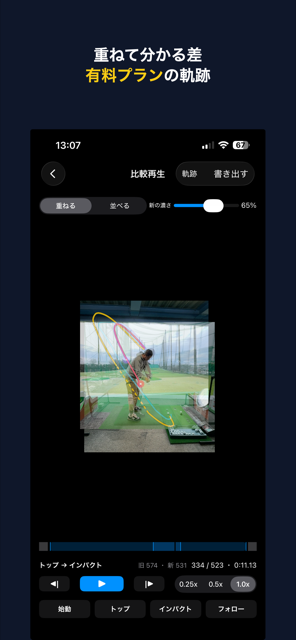
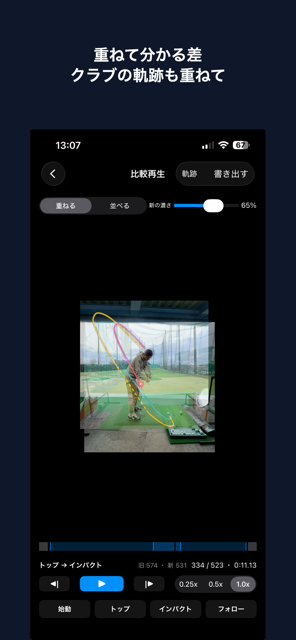
feat: ver-2.1 に合わせる(軌跡・書き出しは広告で解放・無料3回の廃止・特典=すべての広告なし・広告の場所・スクショ1/3枚目のキャプション)

Changed region(s): [[0.2432, 0.0938, 0.7601, 0.1562]]

diff --git a/index.html b/index.html
@@ -4,7 +4,7 @@
 <meta charset="UTF-8">
 <meta name="viewport" content="width=device-width, initial-scale=1.0">
 <title>SwingTwin スイングツイン — ゴルフスイング軌跡を重ねて比較</title>
-<meta name="description" content="新旧2本のゴルフスイング動画を、大きさ・位置・タイミングを自動で揃えて重ねて比較するiPhoneアプリ。後方（飛球線の後ろ）から撮ったスロー動画なら、クラブヘッドの軌跡も重ねて表示できます（有料プラン）。">
+<meta name="description" content="新旧2本のゴルフスイング動画を、大きさ・位置・タイミングを自動で揃えて重ねて比較するiPhoneアプリ。後方（飛球線の後ろ）から撮ったスロー動画なら、クラブヘッドの軌跡も重ねて表示できます。">
 <meta property="og:title" content="SwingTwin スイングツイン — ゴルフスイング軌跡を重ねて比較">
 <meta property="og:description" content="新旧2本のゴルフスイング動画を、大きさ・位置・タイミングを自動で揃えて重ねて比較するiPhoneアプリ。後方から撮ったスロー動画なら、クラブヘッドの軌跡も重ねて表示できます。">
 <meta property="og:type" content="website">
@@ -121,7 +121,7 @@
       撮った日が違っても、大きさ・位置・タイミングを自動で揃えるから、残った差だけがフォームの違いになります。
     </p>
     <a class="cta" href="https://apps.apple.com/jp/app/swingtwin/id6806578247">App Store で見る</a>
-    <span class="cta-note">本体無料・一部の機能は有料プラン（SwingTwin Pro）</span>
+    <span class="cta-note">本体無料（広告あり）・広告なしで使える有料プラン（SwingTwin Pro）あり</span>
   </div>
 </header>
 
@@ -204,7 +204,7 @@
 <section>
   <div class="wrap">
     <h2>クラブヘッドの軌跡を重ねて見る</h2>
-    <p class="sub">有料プラン（SwingTwin Pro）の機能です。後方（飛球線の後ろ）から撮ったスロー動画向けです。</p>
+    <p class="sub">後方（飛球線の後ろ）から撮ったスロー動画向けです。未加入の方は、比較1組ごとに短い広告を1本見ると使えます（回数の制限はありません）。</p>
     <p>後方から撮ったスロー動画では、クラブヘッドの軌跡を3色（トップとインパクトで色が変わる）に分けて描けます。書き出しにも軌跡を含められるので、練習の後に見返しても違いが残ります。</p>
     <p class="sub" style="margin-bottom:0">スロー撮影でない動画では軌跡の操作は使えず、その理由が画面に表示されます。後方から撮ったスロー動画でも、クラブヘッドを検出できない場合は軌跡を描けません。</p>
     <div class="pair">
@@ -217,25 +217,19 @@
 <section>
   <div class="wrap">
     <h2>比較した結果は、動画として残せる</h2>
-    <p>重ねた映像をそのまま書き出して、写真アプリに保存できます。書き出しでは「並べる／重ねる」に加えて、軌跡を含めるかも選べます。アプリを開かなくても、練習の後に見返せます。</p>
+    <p>重ねた映像をそのまま書き出して、写真アプリに保存できます。書き出しでは「並べる／重ねる」に加えて、軌跡を含めるかも選べます。アプリを開かなくても、練習の後に見返せます。未加入の方は、書き出すたびに短い広告を1本見てから書き出します。</p>
   </div>
 </section>
 
 <section>
   <div class="wrap">
     <h2>無料で使える機能と、有料プラン（SwingTwin Pro）</h2>
-    <p>無料でも、重ねる／並べる比較・自動の位置合わせ・4基準点の時間同期・スロー再生とコマ送り・書き出し（並べる／重ねる）は回数の制限なくお使いいただけます。</p>
-    <p>SwingTwin Pro に加入すると、次の3つが使えるようになります。</p>
-    <ul>
-      <li>クラブヘッドの軌跡の描画（後方から撮ったスロー動画向け）</li>
-      <li>軌跡を含めた書き出し</li>
-      <li>広告の非表示</li>
-    </ul>
+    <p>無料でも、重ねる／並べる比較・自動の位置合わせ・4基準点の時間同期・スロー再生とコマ送りは回数の制限なくお使いいただけます。クラブヘッドの軌跡（比較1組ごと）と書き出し（1回ごと）は、短い広告を1本見ると、回数の制限なくお使いいただけます。</p>
+    <p>SwingTwin Pro に加入すると、すべての広告が出なくなります。軌跡も書き出しも、広告を見ずにお使いいただけます。</p>
     <table class="plan">
       <tr><th>月額</th><td>¥150（1か月）</td></tr>
       <tr><th>年額</th><td>¥1,200（1年）</td></tr>
     </table>
-    <p>未加入の間も、後方から撮ったスロー動画での軌跡の生成は、無料で3回までお試しいただけます（軌跡を検出できなかった回は数えません。同じ2本の組み合わせで新旧どちらから見ても1回と数えます）。無料の回数を超えた後、続けて軌跡を使うには SwingTwin Pro への加入が必要です。</p>
     <div class="note">
       価格は変更される場合があります。実際の価格は購入画面でご確認ください。お支払いは購入の確定時に Apple アカウントに請求されます。サブスクリプションは、現在の期間が終わる24時間前までに解約しない限り自動で更新されます。解約は設定アプリのサブスクリプション管理から行えます。
     </div>
@@ -246,7 +240,7 @@
   <div class="wrap">
     <h2>動画は iPhone の中で完結します</h2>
     <p>動画をどこかへ送信することはありません。解析・比較・書き出しは、すべて端末の中だけで行われます。アカウント登録も不要です。</p>
-    <p>広告には Google AdMob を使用しています。未加入の場合、書き出し完了時、および比較を終えて動画選択画面へ戻るときに、全画面広告が表示されることがあります。</p>
+    <p>広告には Google AdMob を使用しています。未加入の場合、動画選択画面の下部にバナー広告が、基準点の指定画面から比較へ進むときに全画面広告が表示されることがあります。オフラインのときは広告を見られないため、軌跡と書き出しは使えません。</p>
     <div class="note">
       こんな方に向いています——過去の自分と今の自分を見比べたい方、練習の成果を数字ではなく映像で確かめたい方、動画は撮るけど見返し方に迷っていた方。
     </div>
